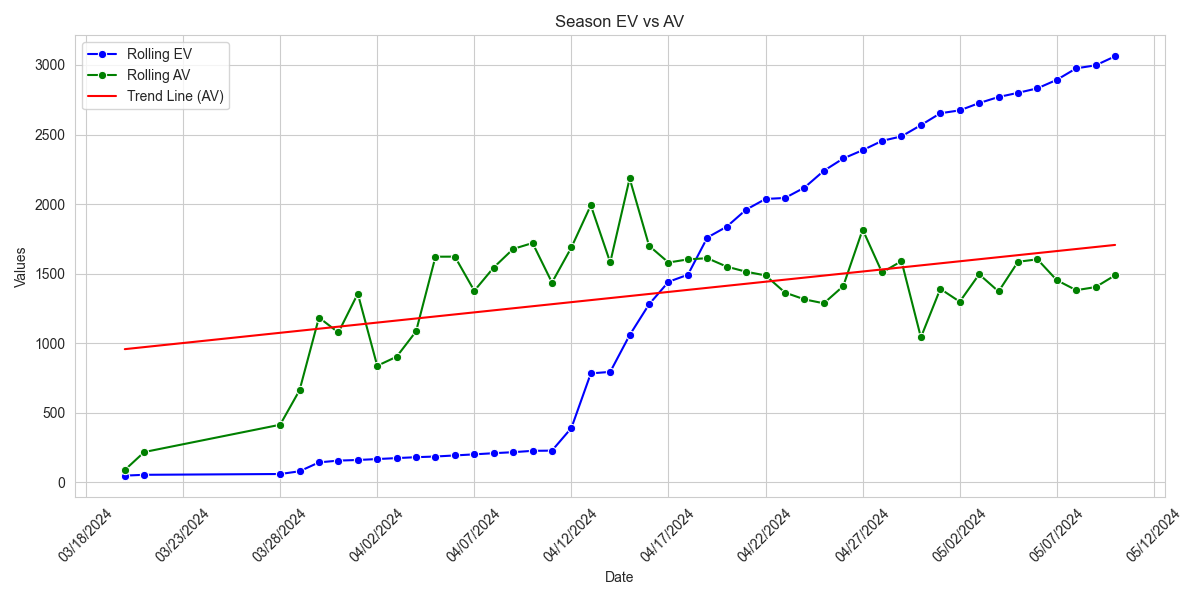
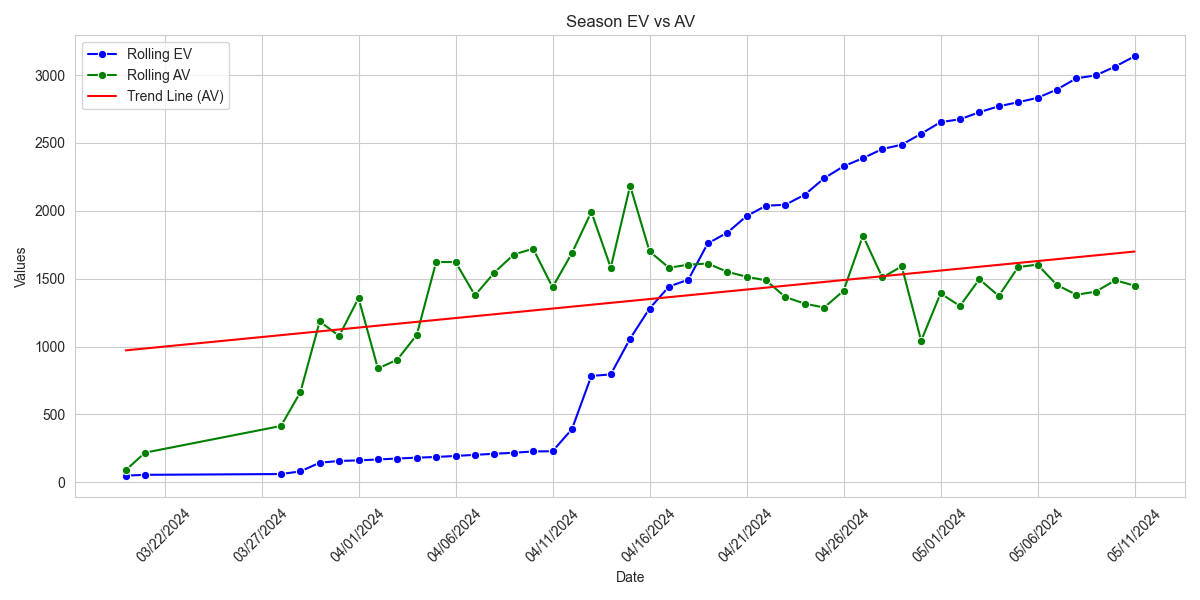
web

diff --git a/index.html b/index.html
@@ -1,1 +1,1 @@
-<html><head><meta name="viewport" content="width=device-width, initial-scale=1"><meta http-equiv="Cache-Control" content="no-cache, no-store, must-revalidate"><meta http-equiv="Pragma" content="no-cache"><meta http-equiv="Expires" content="0"><title>MLB Shit</title><link rel="stylesheet" type="text/css" href="styles.css"></head><body><p><b>Daily Picks</b></p><table><tr><th>Date</th><th>Team</th><th>Price</th><th>Bet</th><th>Win</th><th>WP</th><th>EV</th><th>Type</th><th>Result</th></tr><tr><td>05/11/2024</td><td><img src='https://www.mlbstatic.com/team-logos/142.svg' height=30 width=30></td><td>+130</td><td>$72.75</td><td>$94.58</td><td>47.2%</td><td>6.2%</td><td>Dog</td><td></td></td><tr><td>05/11/2024</td><td><img src='https://www.mlbstatic.com/team-logos/109.svg' height=30 width=30></td><td>+145</td><td>$67.75</td><td>$98.23</td><td>44.0%</td><td>5.3%</td><td>Dog</td><td></td></td><tr><td>05/11/2024</td><td><img src='https://www.mlbstatic.com/team-logos/112.svg' height=30 width=30></td><td>-110</td><td>$85.00</td><td>$77.27</td><td>55.4%</td><td>4.9%</td><td>Fav</td><td></td></td><tr><td>05/11/2024</td><td><img src='https://www.mlbstatic.com/team-logos/144.svg' height=30 width=30></td><td>-155</td><td>$94.00</td><td>$60.65</td><td>61.4%</td><td>1.0%</td><td>Fav</td><td></td></td><tr><td>05/11/2024</td><td><img src='https://www.mlbstatic.com/team-logos/147.svg' height=30 width=30></td><td>-122</td><td>$89.00</td><td>$72.95</td><td>58.0%</td><td>4.9%</td><td>Fav</td><td></td></td><tr><td>05/11/2024</td><td><img src='https://www.mlbstatic.com/team-logos/143.svg' height=30 width=30></td><td>-130</td><td>$106.75</td><td>$82.12</td><td>66.1%</td><td>18.1%</td><td>Fav</td><td></td></td><tr><td>05/11/2024</td><td><img src='https://www.mlbstatic.com/team-logos/111.svg' height=30 width=30></td><td>-162</td><td>$106.50</td><td>$65.74</td><td>67.0%</td><td>8.9%</td><td>Fav</td><td></td></td><tr><td>05/11/2024</td><td><img src='https://www.mlbstatic.com/team-logos/145.svg' height=30 width=30></td><td>+140</td><td>$74.75</td><td>$104.65</td><td>47.8%</td><td>11.0%</td><td>Dog</td><td></td></td><tr><td>05/11/2024</td><td><img src='https://www.mlbstatic.com/team-logos/158.svg' height=30 width=30></td><td>-175</td><td>$100.00</td><td>$57.14</td><td>64.5%</td><td>1.4%</td><td>Fav</td><td></td></td><tr><td>05/11/2024</td><td><img src='https://www.mlbstatic.com/team-logos/119.svg' height=30 width=30></td><td>-142</td><td>$98.50</td><td>$69.37</td><td>62.9%</td><td>7.1%</td><td>Fav</td><td></td></td><tr><td>05/11/2024</td><td><img src='https://www.mlbstatic.com/team-logos/118.svg' height=30 width=30></td><td>-148</td><td>$97.75</td><td>$66.05</td><td>62.8%</td><td>5.1%</td><td>Fav</td><td></td></td><tr><td>05/11/2024</td><td><img src='https://www.mlbstatic.com/team-logos/117.svg' height=30 width=30></td><td>+130</td><td>$67.75</td><td>$88.08</td><td>44.7%</td><td>1.9%</td><td>Dog</td><td></td></td><tr><th colspan=9><B>SUMMARY: $1,060.50 in play to win $936.83</B></th></tr><tr><th colspan=9><B>LAST UPDATED: 05/11/2024 03:41 PM</B></th></tr></table><p><b>Monthly Totals</b></p><table><tr><th>Date</th><th>Profit</th><th>W/L</th><th>Favs</th><th>Dogs</th><th>Fav $</th><th>Dog $</th></tr><tr><td>05/01/2024</td><td>$348.92</td><td>8-4</td><td>4-1</td><td>4-3</td><td>$187.12</td><td>$161.80</td></td><tr><td>05/02/2024</td><td>$-92.44</td><td>1-2</td><td>0-1</td><td>1-1</td><td>$-94.75</td><td>$2.31</td></td><tr><td>05/03/2024</td><td>$197.01</td><td>7-5</td><td>3-1</td><td>4-4</td><td>$125.59</td><td>$71.42</td></td><tr><td>05/04/2024</td><td>$-123.54</td><td>4-6</td><td>1-1</td><td>3-5</td><td>$-32.70</td><td>$-90.84</td></td><tr><td>05/05/2024</td><td>$213.29</td><td>6-4</td><td>0-1</td><td>6-3</td><td>$-80.50</td><td>$293.79</td></td><tr><td>05/06/2024</td><td>$17.89</td><td>4-3</td><td>3-1</td><td>1-2</td><td>$83.64</td><td>$-65.75</td></td><tr><td>05/07/2024</td><td>$-150.23</td><td>4-5</td><td>3-3</td><td>1-2</td><td>$-94.63</td><td>$-55.60</td></td><tr><td>05/08/2024</td><td>$-71.74</td><td>5-6</td><td>4-2</td><td>1-4</td><td>$119.06</td><td>$-190.80</td></td><tr><td>05/09/2024</td><td>$22.55</td><td>3-2</td><td>1-2</td><td>2-0</td><td>$-141.33</td><td>$163.88</td></td><tr><td>05/10/2024</td><td>$84.48</td><td>8-6</td><td>5-4</td><td>3-2</td><td>$-58.90</td><td>$143.38</td></td><tr><th colspan=7>TOTALS</th></tr><tr><th colspan=2>Monthly Profit</th><th colspan=2>W%</th><th>Fav W%</th><th>Dog W%</th><th>Predicted Upset W%</th></tr><tr><td colspan=2>$446.19</td><td colspan=2>53.8%</td><td>58.5%</td><td>50.0%</td><td>63.2%</td></tr></table><p><b>Season Totals</b></p><table width="30%"><tr><th width="25%">Month</th><th width="25%">Profit</th><th width="25%" colspan=2>Bankroll Growth</th></tr><tr><td>March</td><td>$1,077.72</td><td colspan=2>13.5%</td></td><tr><td>April</td><td>$-35.26</td><td colspan=2>-0.4%</td></td><tr><td>May</td><td>$446.19</td><td colspan=2>5.6%</td></td><tr><td><b><i>TOTAL</i></b></td><td><b><i>$1,488.65</i></b></td><td colspan=2><b><i>18.6%</i></b></td></td><tr><th colspan=4>Performance</th></tr><tr><th>Season W%</th><th>Fav W%</th><th>Dog W%</th><th>Predicted Upset W%</th></tr><tr><td>53.2%</td><td>59.2%</td><td>48.3%</td><td>52.3%</td></tr></table><p><table><tr><td><img class="chart" src="images/ev_graph.png"></td></tr></table></p></body></html>
+<html><head><meta name="viewport" content="width=device-width, initial-scale=1"><meta http-equiv="Cache-Control" content="no-cache, no-store, must-revalidate"><meta http-equiv="Pragma" content="no-cache"><meta http-equiv="Expires" content="0"><title>MLB Shit</title><link rel="stylesheet" type="text/css" href="styles.css"></head><body><p><b>Daily Picks</b></p><table><tr><th>Date</th><th>Team</th><th>Price</th><th>Bet</th><th>Win</th><th>WP</th><th>EV</th><th>Type</th><th>Result</th></tr><tr><td>05/12/2024</td><td><img src='https://www.mlbstatic.com/team-logos/112.svg' height=30 width=30></td><td>-118</td><td>$85.75</td><td>$72.67</td><td>56.2%</td><td>3.3%</td><td>Fav</td><td></td></td><tr><td>05/12/2024</td><td><img src='https://www.mlbstatic.com/team-logos/141.svg' height=30 width=30></td><td>+120</td><td>$83.00</td><td>$99.60</td><td>52.8%</td><td>13.4%</td><td>Dog</td><td></td></td><tr><td>05/12/2024</td><td><img src='https://www.mlbstatic.com/team-logos/143.svg' height=30 width=30></td><td>-245</td><td>$134.25</td><td>$54.80</td><td>79.0%</td><td>15.1%</td><td>Fav</td><td></td></td><tr><td>05/12/2024</td><td><img src='https://www.mlbstatic.com/team-logos/114.svg' height=30 width=30></td><td>-166</td><td>$99.50</td><td>$59.94</td><td>64.1%</td><td>2.7%</td><td>Fav</td><td></td></td><tr><td>05/12/2024</td><td><img src='https://www.mlbstatic.com/team-logos/113.svg' height=30 width=30></td><td>+110</td><td>$78.75</td><td>$86.63</td><td>51.2%</td><td>5.9%</td><td>Dog</td><td></td></td><tr><td>05/12/2024</td><td><img src='https://www.mlbstatic.com/team-logos/118.svg' height=30 width=30></td><td>-135</td><td>$98.00</td><td>$72.59</td><td>62.5%</td><td>8.6%</td><td>Fav</td><td></td></td><tr><td>05/12/2024</td><td><img src='https://www.mlbstatic.com/team-logos/119.svg' height=30 width=30></td><td>-125</td><td>$101.00</td><td>$80.80</td><td>63.4%</td><td>14.3%</td><td>Fav</td><td></td></td><tr><td>05/12/2024</td><td><img src='https://www.mlbstatic.com/team-logos/144.svg' height=30 width=30></td><td>-125</td><td>$87.25</td><td>$69.80</td><td>57.2%</td><td>2.6%</td><td>Fav</td><td></td></td><tr><th colspan=9><B>SUMMARY: $767.50 in play to win $596.83</B></th></tr><tr><th colspan=9><B>LAST UPDATED: 05/12/2024 08:44 AM</B></th></tr></table><p><b>Monthly Totals</b></p><table><tr><th>Date</th><th>Profit</th><th>W/L</th><th>Favs</th><th>Dogs</th><th>Fav $</th><th>Dog $</th></tr><tr><td>05/01/2024</td><td>$348.92</td><td>8-4</td><td>4-1</td><td>4-3</td><td>$187.12</td><td>$161.80</td></td><tr><td>05/02/2024</td><td>$-92.44</td><td>1-2</td><td>0-1</td><td>1-1</td><td>$-94.75</td><td>$2.31</td></td><tr><td>05/03/2024</td><td>$197.01</td><td>7-5</td><td>3-1</td><td>4-4</td><td>$125.59</td><td>$71.42</td></td><tr><td>05/04/2024</td><td>$-123.54</td><td>4-6</td><td>1-1</td><td>3-5</td><td>$-32.70</td><td>$-90.84</td></td><tr><td>05/05/2024</td><td>$213.29</td><td>6-4</td><td>0-1</td><td>6-3</td><td>$-80.50</td><td>$293.79</td></td><tr><td>05/06/2024</td><td>$17.89</td><td>4-3</td><td>3-1</td><td>1-2</td><td>$83.64</td><td>$-65.75</td></td><tr><td>05/07/2024</td><td>$-150.23</td><td>4-5</td><td>3-3</td><td>1-2</td><td>$-94.63</td><td>$-55.60</td></td><tr><td>05/08/2024</td><td>$-71.74</td><td>5-6</td><td>4-2</td><td>1-4</td><td>$119.06</td><td>$-190.80</td></td><tr><td>05/09/2024</td><td>$22.55</td><td>3-2</td><td>1-2</td><td>2-0</td><td>$-141.33</td><td>$163.88</td></td><tr><td>05/10/2024</td><td>$84.48</td><td>8-6</td><td>5-4</td><td>3-2</td><td>$-58.90</td><td>$143.38</td></td><tr><td>05/11/2024</td><td>$-40.33</td><td>6-6</td><td>5-3</td><td>1-3</td><td>$63.27</td><td>$-103.60</td></td><tr><th colspan=7>TOTALS</th></tr><tr><th colspan=2>Monthly Profit</th><th colspan=2>W%</th><th>Fav W%</th><th>Dog W%</th><th>Predicted Upset W%</th></tr><tr><td colspan=2>$405.86</td><td colspan=2>53.3%</td><td>59.2%</td><td>48.2%</td><td>63.2%</td></tr></table><p><b>Season Totals</b></p><table width="30%"><tr><th width="25%">Month</th><th width="25%">Profit</th><th width="25%" colspan=2>Bankroll Growth</th></tr><tr><td>March</td><td>$1,077.72</td><td colspan=2>13.5%</td></td><tr><td>April</td><td>$-35.26</td><td colspan=2>-0.4%</td></td><tr><td>May</td><td>$405.86</td><td colspan=2>5.1%</td></td><tr><td><b><i>TOTAL</i></b></td><td><b><i>$1,448.32</i></b></td><td colspan=2><b><i>18.1%</i></b></td></td><tr><th colspan=4>Performance</th></tr><tr><th>Season W%</th><th>Fav W%</th><th>Dog W%</th><th>Predicted Upset W%</th></tr><tr><td>53.1%</td><td>59.3%</td><td>47.9%</td><td>52.3%</td></tr></table><p><table><tr><td><img class="chart" src="images/ev_graph.png"></td></tr></table></p></body></html>
